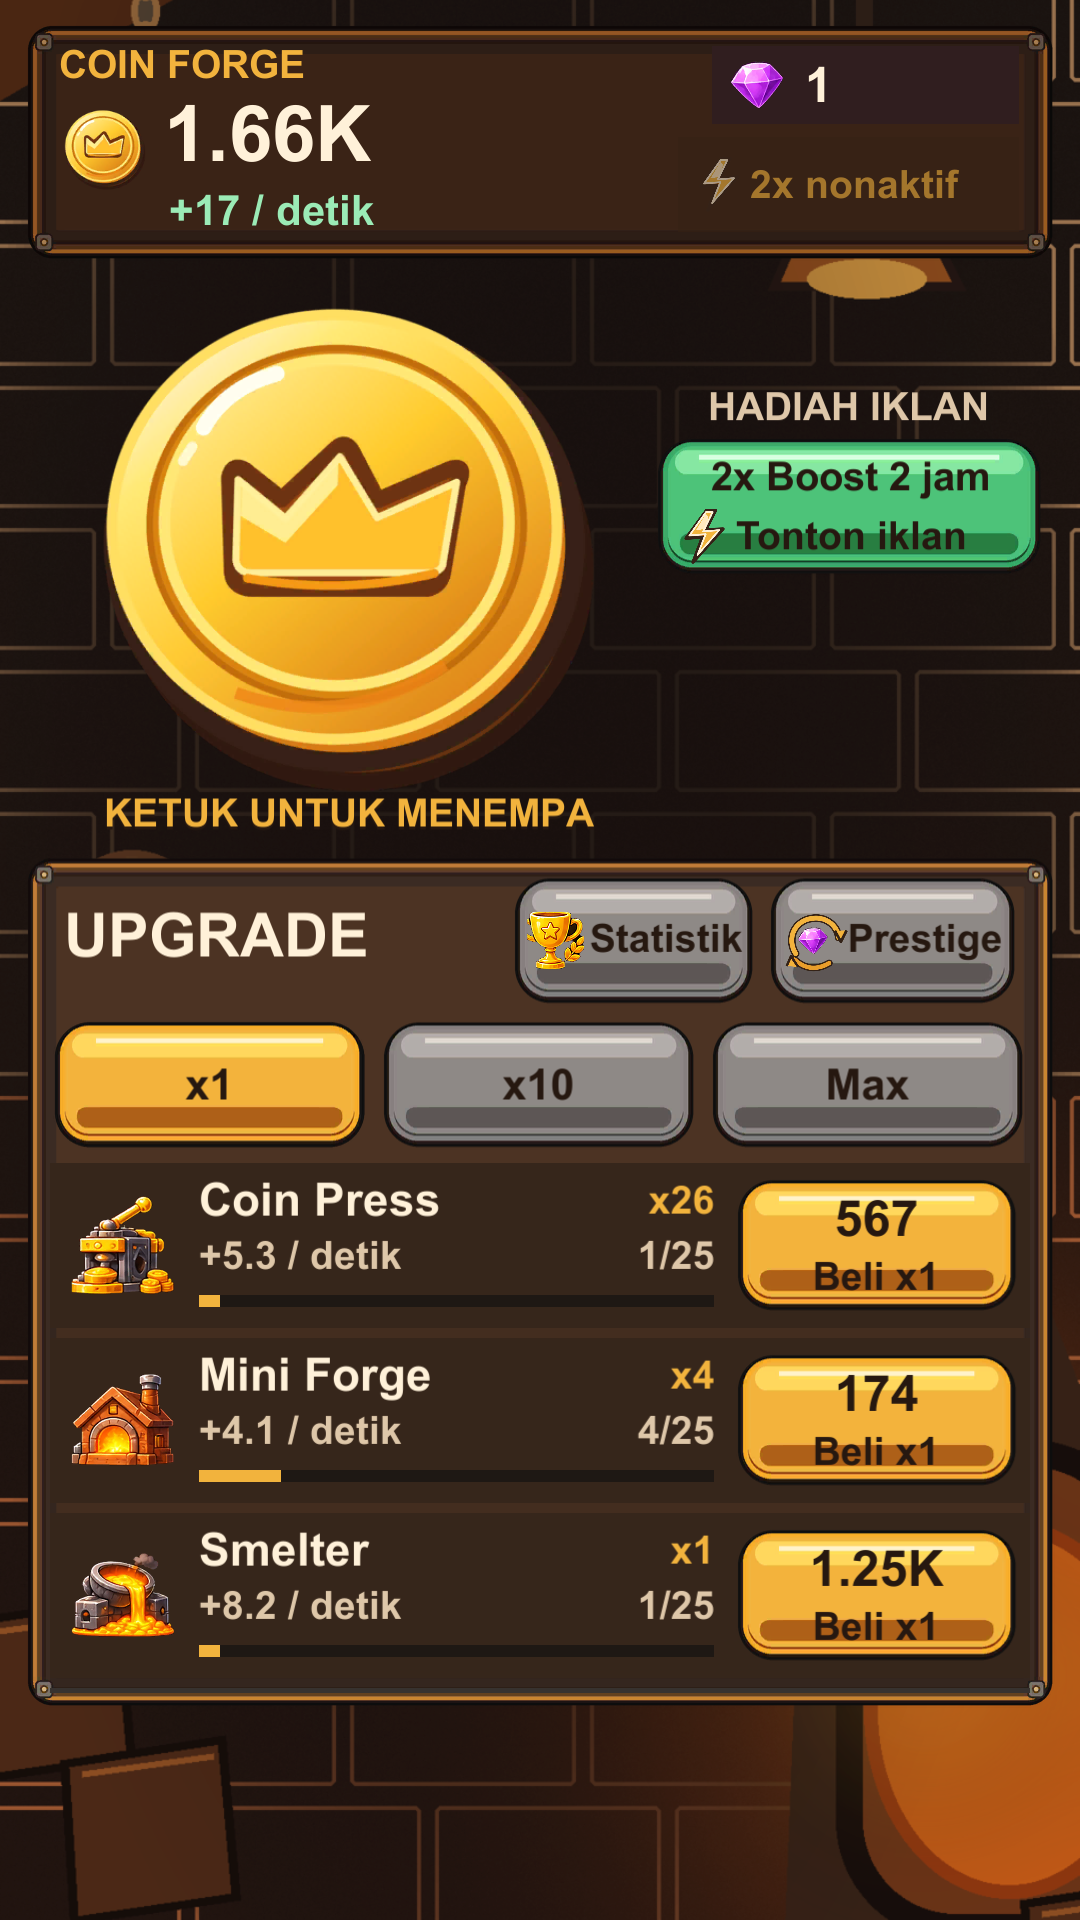
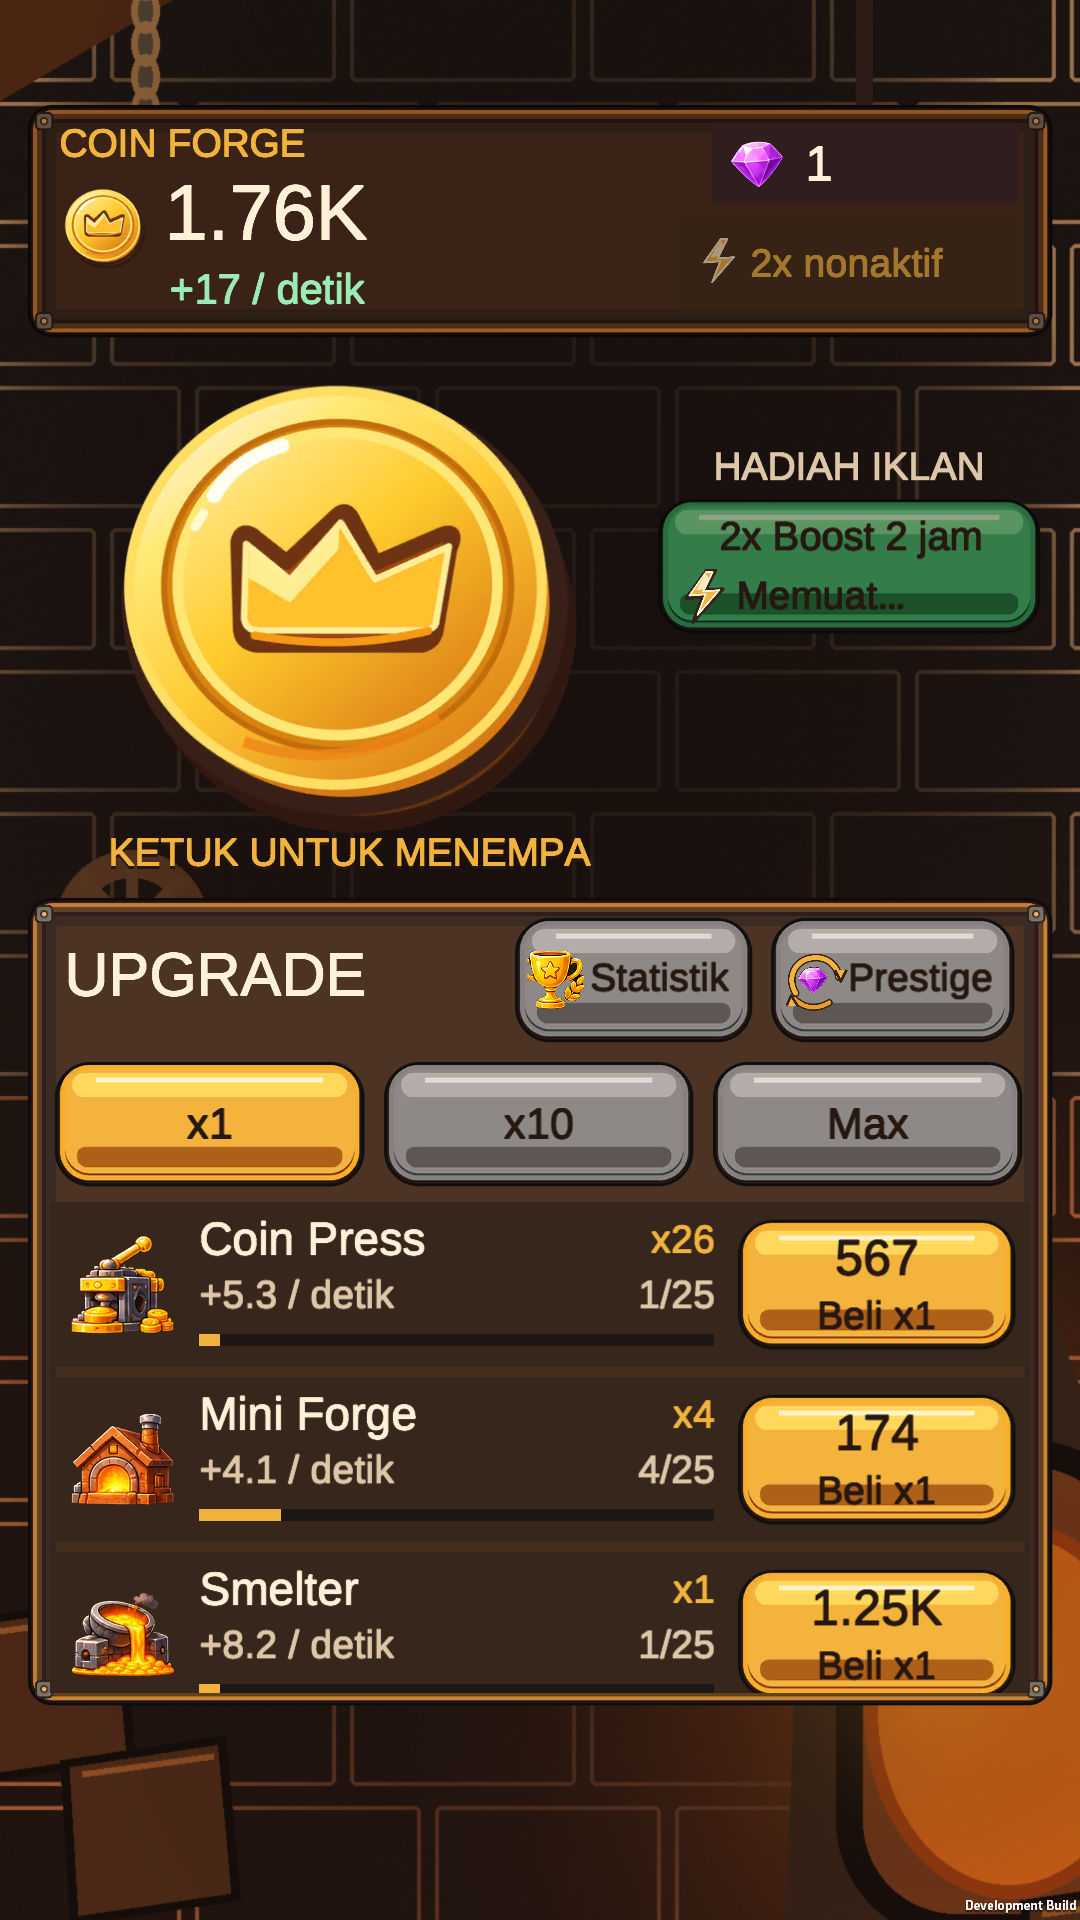
IC-02 verify UI on Redmi Note 7

diff --git a/Docs/IC-02/README.md b/Docs/IC-02/README.md
@@ -38,11 +38,13 @@ Aset toko yang diimpor terdiri dari `app_icon_512.png` (512×512) dan `feature_g
 
 Unity 6000.3.27f1 berhasil membangun APK development Android. Play Mode lulus 18 pemeriksaan, termasuk harga dan ketersediaan x1, x10, dan Max, pembelian, Welcome Back dan klaim offline, Statistik, konfirmasi Prestige, serta tampilan dan nilai Time Warp sesuai kondisi siap dan batas 180 detik. Saat rewarded belum siap, tombol Boost nonaktif dengan label “Memuat…” dan Time Warp tersembunyi.
 
-| Tangkapan layar Unity Editor | Resolusi | Kondisi |
+| Tangkapan layar Redmi Note 7 | Resolusi | Kondisi |
 | --- | --- | --- |
-| [16:9](16x9.png) | 1080×1920 | Safe area penuh |
-| [19.5:9](19.5x9.png) | 1080×2340 | Inset notch simulasi 84px |
-| [20:9](20x9.png) | 1080×2400 | Inset punch-hole simulasi 72px |
-| [Welcome Back dengan simulasi banner](welcome-banner-simulated.png) | 1080×2340 | Banner 167px, jarak terukur 44px (16dp pada 440dpi) |
+| [16:9](16x9.png) | 1080×1920 | Override ukuran layar, rewarded sedang dimuat |
+| [19.5:9](19.5x9.png) | 1080×2340 | Ukuran fisik dengan notch dan banner uji aktif |
+| [20:9](20x9.png) | 1080×2400 | Override ukuran layar dengan banner uji aktif |
+| [Welcome Back di atas banner](welcome-banner.png) | 1080×2340 | Banner uji AdMob aktif di bawah popup |
 
-Redmi Note 7 menolak pemasangan APK QA lewat USB dengan `INSTALL_FAILED_USER_RESTRICTED`. Banner AdMob native dan performa 60 FPS/GC saat tap cepat masih menunggu pengukuran di perangkat.
+Pada resolusi fisik, Unity melaporkan safe area dengan inset atas 79px dan AdMob melaporkan tinggi banner 167px. Pada density 440dpi, batas panel menyisakan 44px atau 16dp di atas banner. Klaim lewat tombol Ambil menutup popup dan menambah koin. Time Warp terlihat saat rewarded siap dan ETA melebihi 180 detik, lalu tersembunyi pada skenario dengan pembelian terjangkau.
+
+Pengukuran awal development build pada 1080×2340 mencatat 35,7 FPS saat diam dan 33,3 FPS saat 96 tap dalam delapan detik. P95 waktu frame sekitar 50 ms. Selama kedua sampel tidak tercatat koleksi GC, dan P95 alokasi per frame tetap 218 B. Target 60 FPS belum tercapai pada sampel ini.
